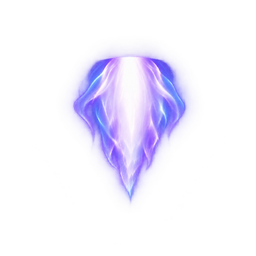
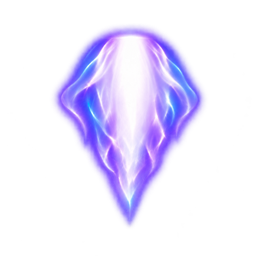
Make popup plume visibly distinct

Changed region(s): [[0.1875, 0.0938, 0.8125, 0.9062]]

diff --git a/popup.css b/popup.css
@@ -1,7 +1,7 @@
 *{box-sizing:border-box}html,body{margin:0;width:276px;background:#132b52;font-family:-apple-system,BlinkMacSystemFont,"Segoe UI",sans-serif}#card{width:276px;padding:12px 14px 11px;border:1px solid rgba(255,255,255,.22);border-radius:14px;background:#132b52;color:#fff;overflow:hidden}#copy{height:34px;color:#7dd3fc}strong,#status{display:block}strong{margin-bottom:2px;font-size:13px;line-height:1.2}#status{font-size:12px;font-weight:500;line-height:1.3;white-space:nowrap;overflow:hidden;text-overflow:ellipsis}#scene{position:relative;height:76px;margin-top:7px;overflow:visible}#track{position:absolute;left:2px;right:2px;bottom:3px;height:5px;overflow:hidden;border-radius:999px;background:rgba(255,255,255,.14)}#bar{width:3%;height:100%;border-radius:inherit;background:linear-gradient(90deg,#25c7f7,#818cf8 58%,#a78bfa);box-shadow:0 0 10px rgba(129,140,248,.72);transition:width 180ms ease-out}#robot-position{position:absolute;top:12px;left:3%;width:56px;height:50px;transform:translateX(-3%);transition:left 320ms cubic-bezier(.22,1,.36,1),top 420ms cubic-bezier(.22,1,.36,1),transform 320ms cubic-bezier(.22,1,.36,1)}#robot{position:absolute;top:0;left:0;width:56px;filter:drop-shadow(0 4px 7px rgba(7,18,43,.38));animation:hover 2.4s ease-in-out infinite}#plume{position:absolute;top:40px;left:22px;width:14px;height:9px;object-fit:fill;opacity:.88;filter:drop-shadow(0 0 4px rgba(139,92,246,.78))}#check{position:absolute;right:2px;bottom:21px;display:grid;place-items:center;width:22px;height:22px;border-radius:50%;background:#18a66f;box-shadow:0 0 0 3px rgba(52,211,153,.16),0 4px 12px rgba(3,80,55,.32);color:#fff;font-size:14px;font-weight:800;opacity:0;transform:scale(.72);transition:opacity 180ms,transform 260ms}#card.complete #copy{width:170px;color:#86efac}#card.complete #status{white-space:normal;display:-webkit-box;-webkit-box-orient:vertical;-webkit-line-clamp:2}#card.complete #bar{background:#34d399}#card.complete #check{opacity:1;transform:scale(1)}#card.complete #robot{animation:complete-hover 1.1s ease-in-out infinite}@keyframes hover{0%,100%{transform:translateY(-1px) rotate(-.35deg)}50%{transform:translateY(1.5px) rotate(.25deg)}}@keyframes complete-hover{0%,100%{transform:translateY(-1px) scaleX(-1)}50%{transform:translateY(-3px) scaleX(-1)}}
 
 strong,#status{background:linear-gradient(90deg,#7dd3fc 0%,#818cf8 50%,#c4b5fd 100%);background-size:220% 100%;background-clip:text;-webkit-background-clip:text;-webkit-text-fill-color:transparent;animation:text-shimmer 4.8s ease-in-out infinite}
-#plume{top:36px;left:17px;width:22px;height:14px;opacity:.95;filter:drop-shadow(0 0 6px rgba(139,92,246,.9));animation:plume-pulse 1.5s ease-in-out infinite}
+#plume{top:39px;left:19px;width:18px;height:14px;opacity:.95;filter:drop-shadow(0 0 6px rgba(139,92,246,.9));animation:plume-pulse 1.5s ease-in-out infinite}
 #card.complete strong,#card.complete #status{background-image:none;-webkit-text-fill-color:#86efac;color:#86efac;animation:none}
 @keyframes text-shimmer{0%,100%{background-position:0% 50%}50%{background-position:100% 50%}}
 @keyframes plume-pulse{0%,100%{transform:scaleY(.86) scaleX(.96);opacity:.78}50%{transform:scaleY(1.04) scaleX(1.02);opacity:1}}

diff --git a/docs/TRIAGE.md b/docs/TRIAGE.md
@@ -57,6 +57,7 @@
 - PageSweep 0.1.10 visual review approved the protected completion copy, mascot-facing direction, raised check spacing, and overall completed card. Item 25 is complete. Version 0.1.11 adds measurement-only diagnostics for item 17 without changing any hide or show transition values.
 - Timing reduction remained visually ineffective because Chrome's capture interval dominated each disappearance. The browser-owned popup remained continuously visible and completed short- and long-page captures successfully on 2026-09-14. Item 17 is complete; version 0.2.0 removes temporary instrumentation and retains the earlier in-page implementation as a source fallback.
 - PageSweep 0.2.1 restores the original animated gradient treatment to the popup title and status copy. The plume grows from 14 by 9 pixels to 22 by 14 pixels, remains centered under the mascot, gains a stronger glow and pulse, and keeps approximately 6 pixels of nominal clearance above the track at the starting position.
+- PageSweep 0.2.1 review approved the restored text treatment but found the plume still difficult to see. The original sprite's transparent padding and overlap behind the 43-pixel robot body concealed most of its visible flame. Version 0.2.2 uses a verified-alpha, tightly framed sprite at an effective visible height near one-quarter of the robot and mounts it lower to expose the bright core.
 
 ## Parking Lot
 

diff --git a/docs/CHANGELOG.md b/docs/CHANGELOG.md
@@ -28,6 +28,7 @@ All notable changes to this project are documented here. The project uses semant
 
 ### Changed
 
+- Bumped the extension version to 0.2.2 and replaced the padded plume sprite with a verified transparent, tightly framed flame positioned lower beneath the robot body for better visibility.
 - Bumped the extension version to 0.2.1, restored the animated blue-to-purple text gradient from the approved in-page card, and enlarged the popup plume by approximately 55 percent with a stronger glow and subtle pulse.
 - Promoted the persistent browser-owned mascot progress experience to version 0.2.0 after successful short- and long-page validation, and removed temporary visibility-timing instrumentation.
 - Bumped the extension version to 0.1.12 for the isolated popup-progress experiment; the in-page card is disabled on this branch while the approved 0.1.10 milestone remains preserved.

diff --git a/docs/TODO.md b/docs/TODO.md
@@ -2,7 +2,7 @@
 
 ## In Progress
 
-- Visually validate the restored animated text gradient and enlarged popup plume in PageSweep 0.2.1.
+- Visually validate the tightly framed and lower-mounted plume in PageSweep 0.2.2.
 
 ## Up Next
 
